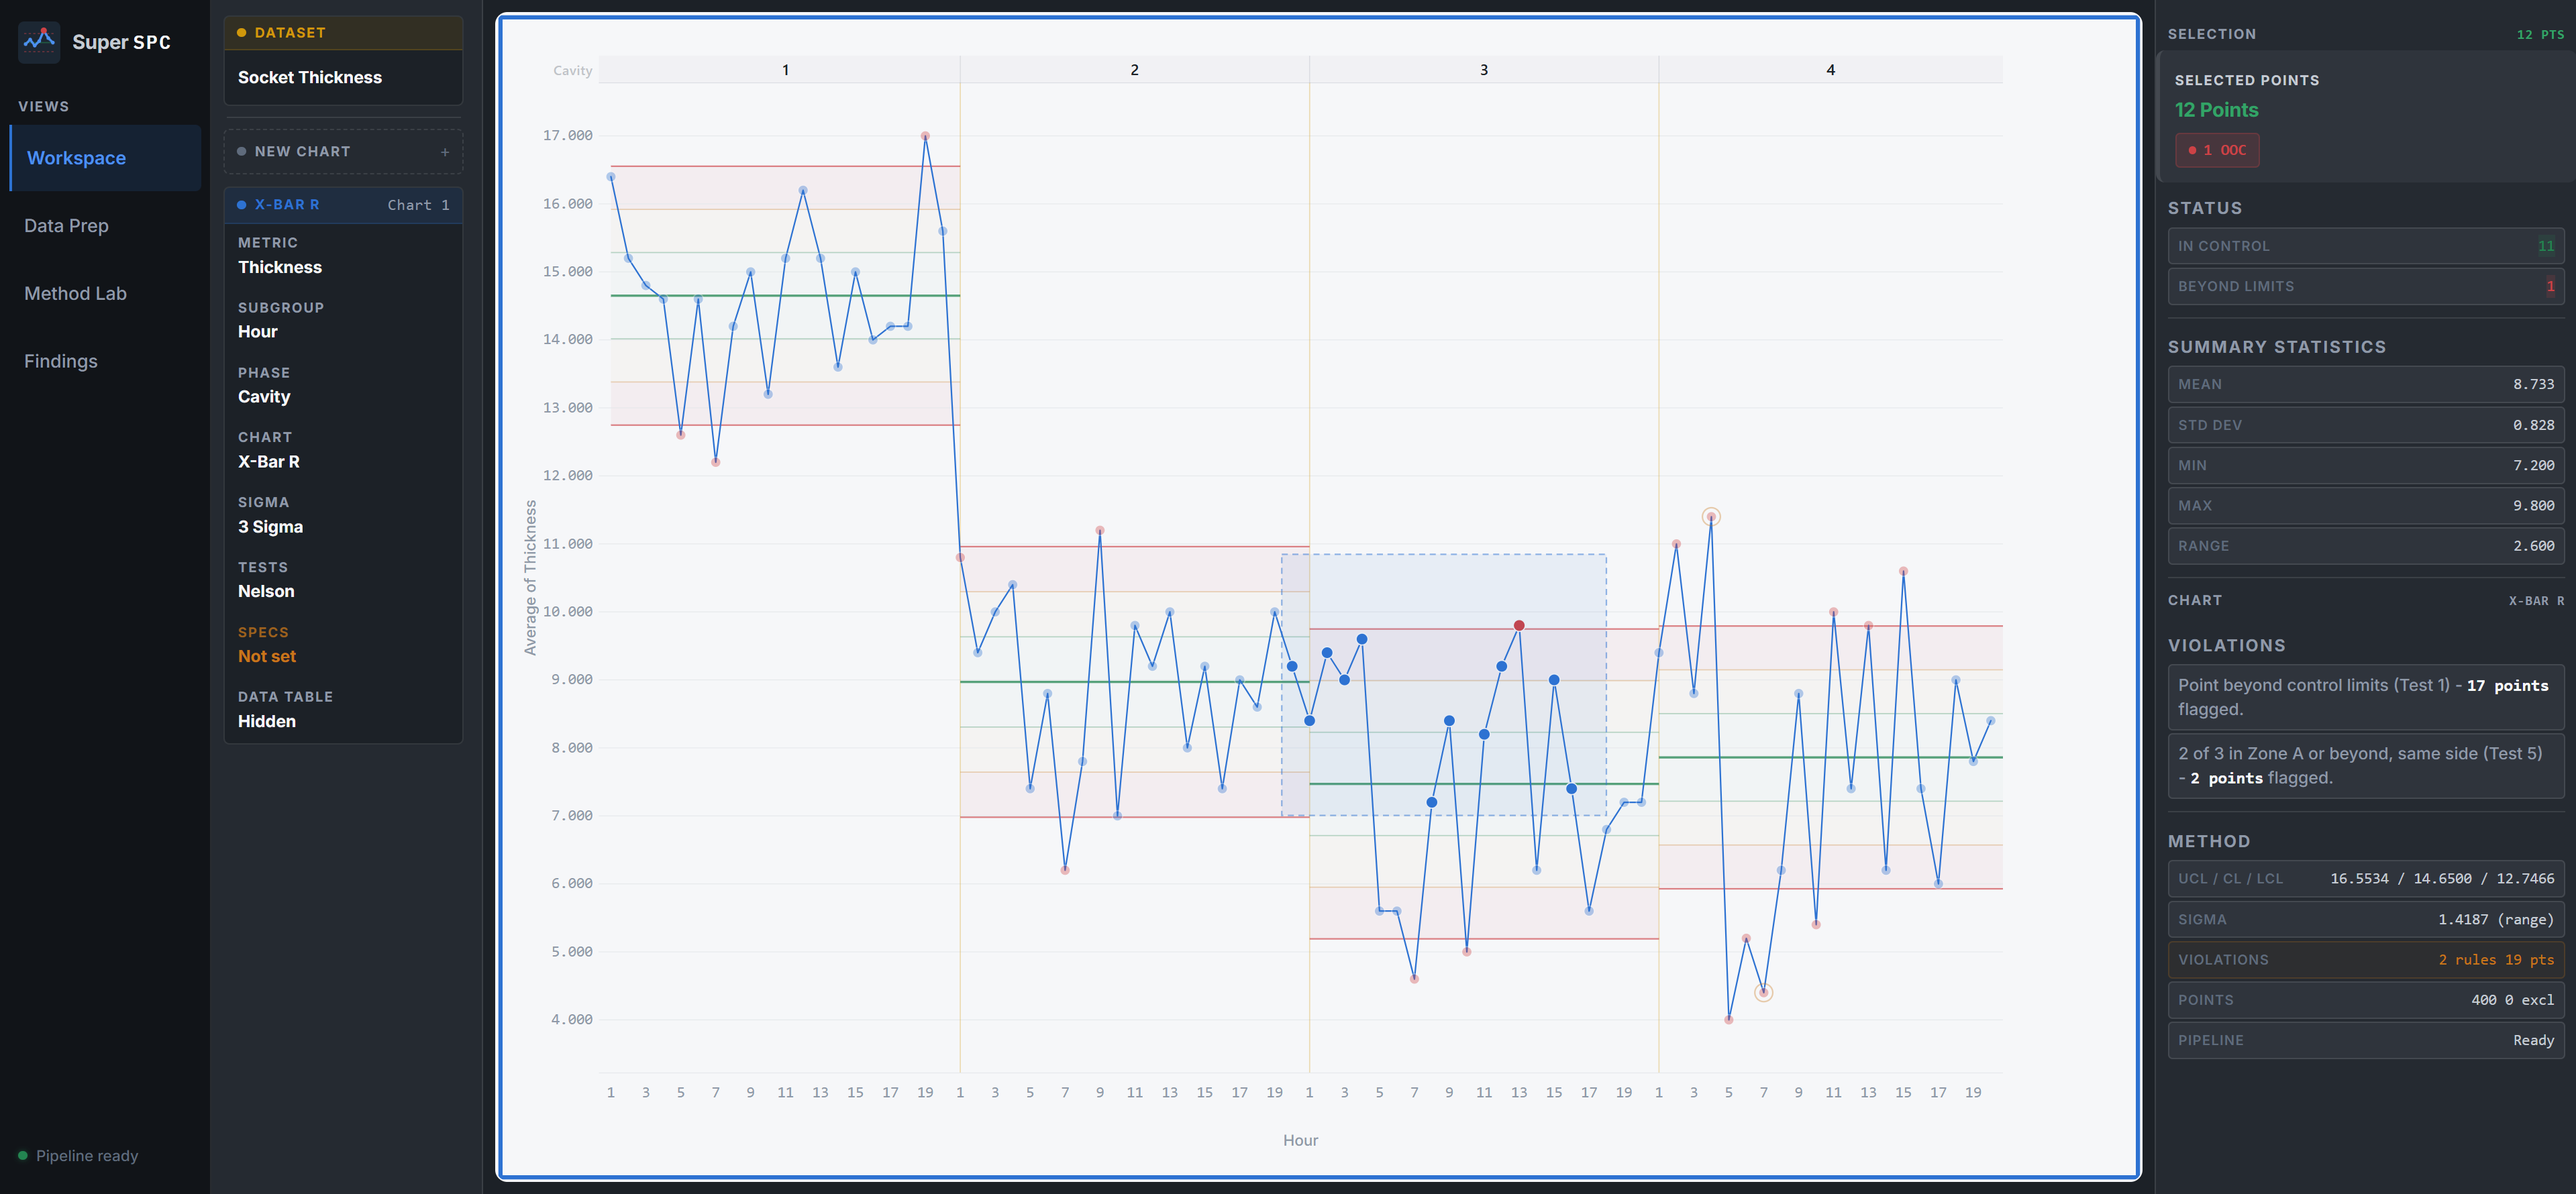
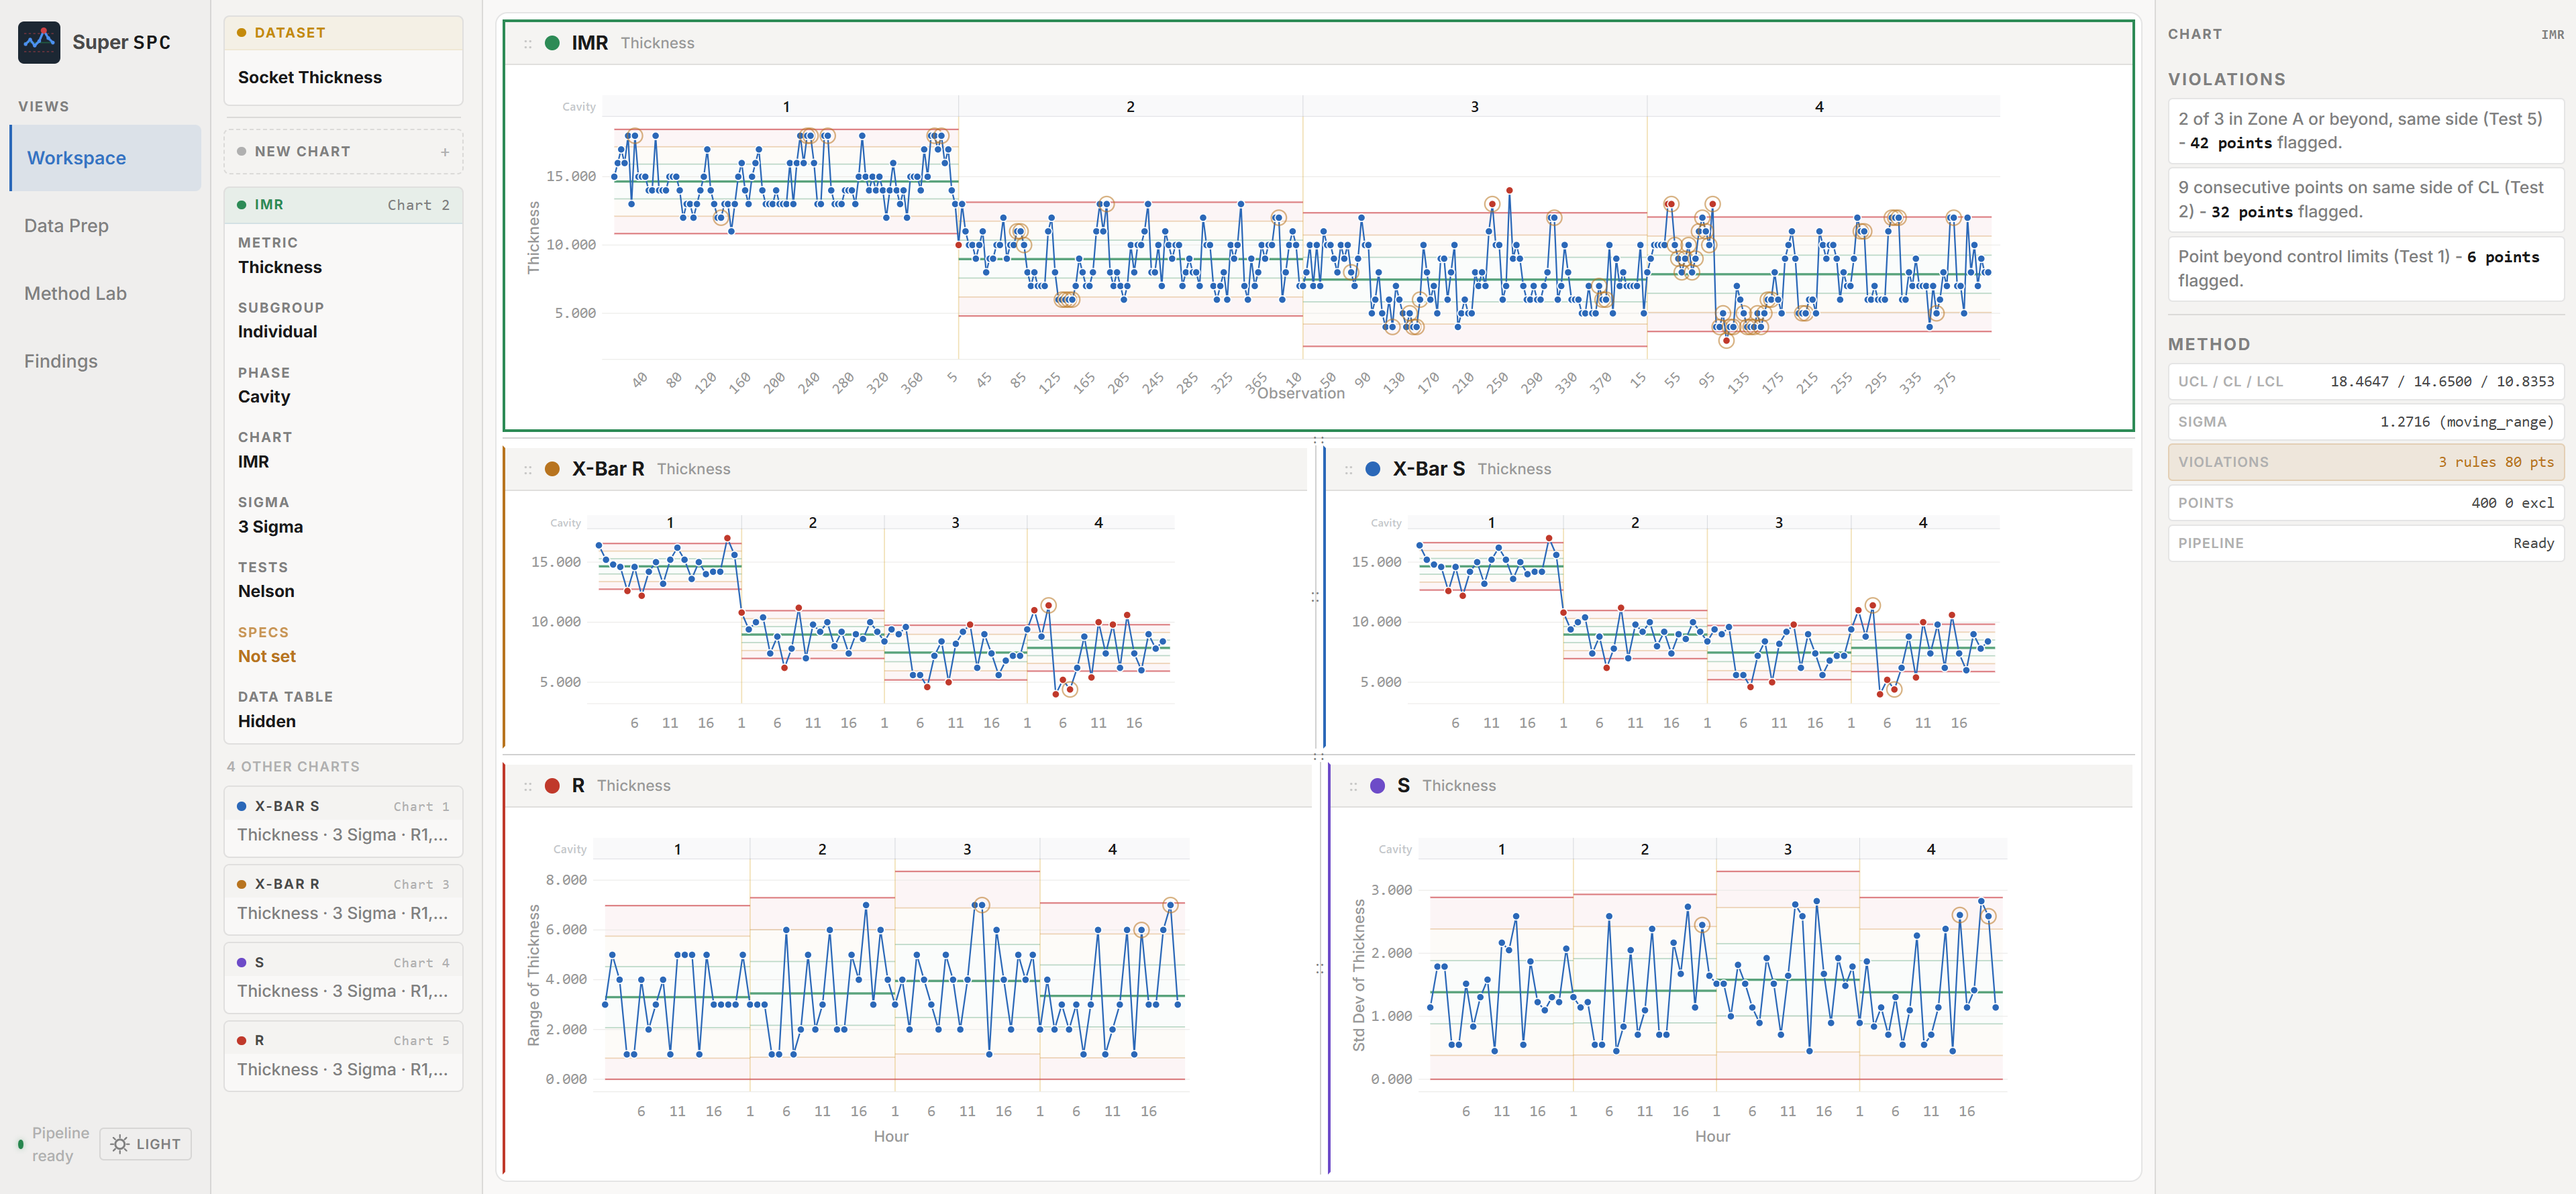
update readme

diff --git a/README.md b/README.md
@@ -36,13 +36,13 @@ That tradeoff is less necessary now. With modern frontend tooling, a practical P
 
 ## Features
 
-### Interactive Charts
+### Rich Interaction & Auto Prediction
 
 - Maximize chart interactivity: `marquee selection`, axis `pan/zoom`, and selectable phase regions
 - A rich evidence rail on the right side for selected point details and method context
-- A configurable forecast area for projecting series behavior in place (in progress)
+- A configurable forecast area for projecting series behavior in place (based on AutoML tool "FLAML")
 
-![Rule violations highlighted with colored rings on an IMR chart](docs/assets/hero.gif)
+![forcast](docs/assets/forcast.gif)
 
 ### Multi-Chart Workspace
 
